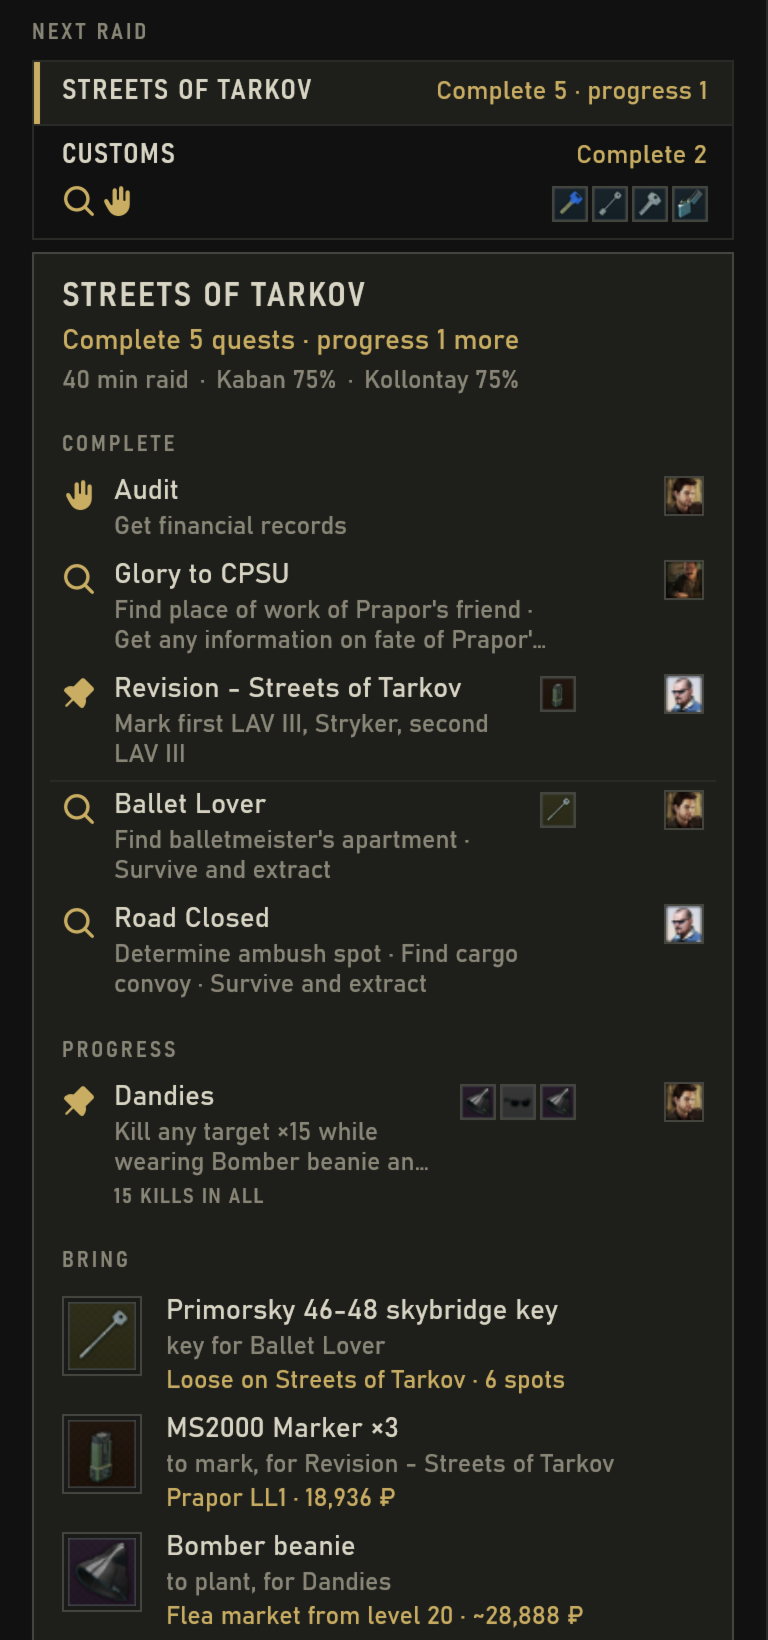
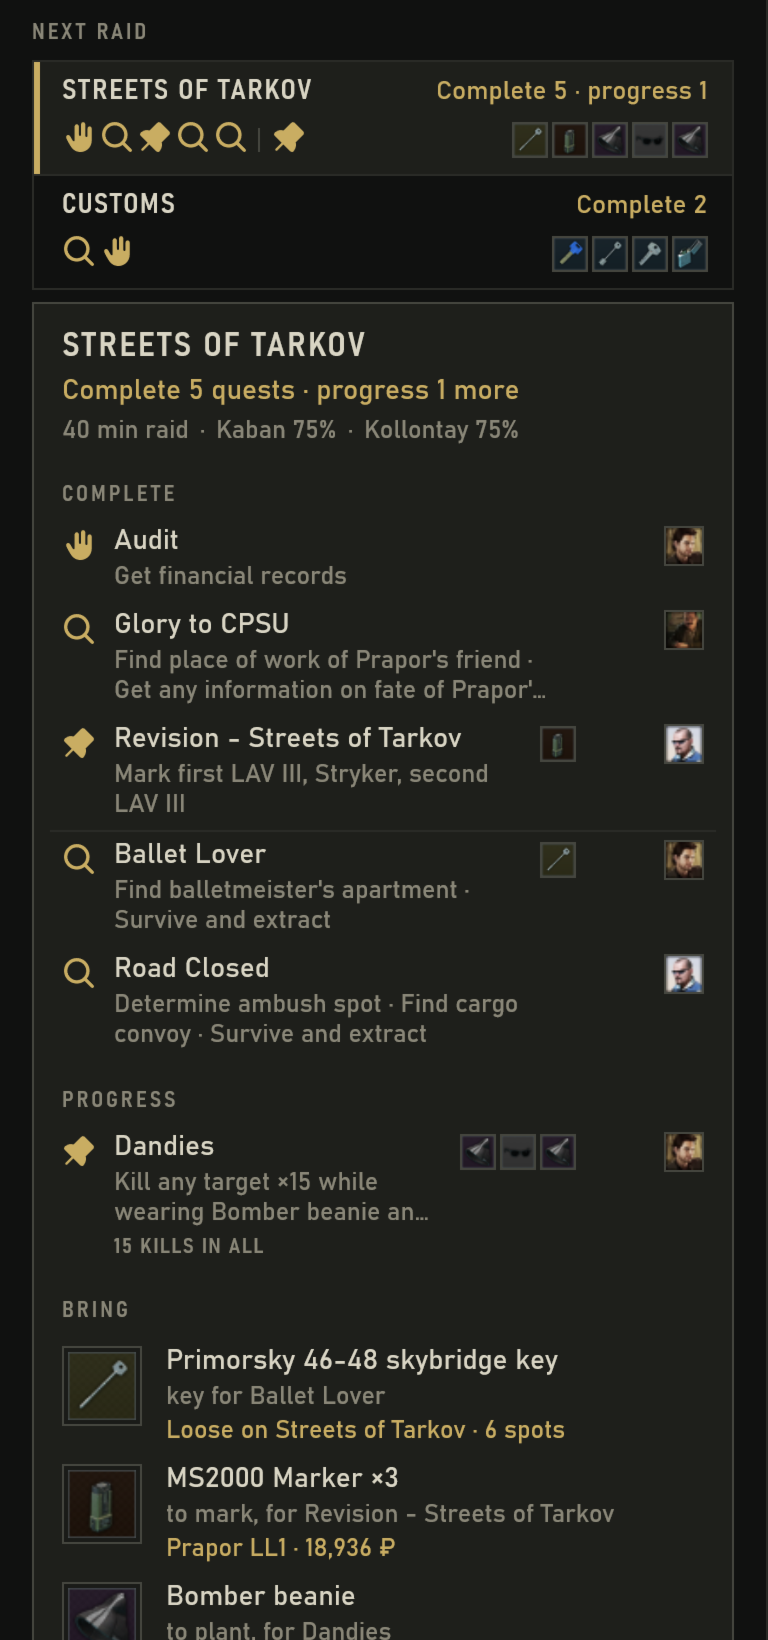
The example raid is a real one; wording follows the extract list
The stills come from the app's new example raid: a walk on Streets 27 minutes into the raid, with the time left as
the raid card's readout and the extract list read. The old picture showed a trail between two spawns at 0 min.
A callout for the time left; the callouts, alt texts and the cue's cut-out follow the new pictures.

Shturmap now reads the top right corner of a raid screenshot's picture for the game's extract list: Boundaries has a
row for it, and the sentences that said the image is never opened say what is read instead.

The hero clip is not re-recorded: it still shows the raid card as it was.

diff --git a/index.html b/index.html
@@ -96,31 +96,34 @@
         <div class="stack" style="gap: 10px">
           <div class="b-anno">
             <div class="b-img" id="raid-box">
-              <img id="raid-img" src="assets/img/raid.webp" width="1584" height="861" alt="Shturmap in a raid on Streets of Tarkov: the raid card on the left, the map on the right, with seven numbered callouts">
+              <img id="raid-img" src="assets/img/raid.webp" width="1584" height="861" alt="Shturmap in a raid on Streets of Tarkov: the raid card on the left, the map on the right, with eight numbered callouts">
               <div class="b-ln" style="left: 20.2%; top: 2.1%"></div><div class="b-pt" style="left: 20.2%; top: 2.1%">1</div>
-              <div class="b-ln" style="left: 20.8%; top: 31.5%"></div><div class="b-pt" style="left: 20.8%; top: 31.5%">2</div>
-              <div class="b-ln" style="left: 20.8%; top: 40.1%"></div><div class="b-pt" style="left: 20.8%; top: 40.1%">3</div>
-              <div class="b-ln" style="left: 60.6%; top: 56.2%"></div><div class="b-pt" style="left: 60.6%; top: 56.2%">4</div>
-              <div class="b-ln" style="left: 96.1%; top: 69.4%"></div><div class="b-pt" style="left: 96.1%; top: 69.4%">5</div>
-              <div class="b-ln" style="left: 58%; top: 88.3%"></div><div class="b-pt" style="left: 58%; top: 88.3%">6</div>
-              <div class="b-ln" style="left: 27.7%; top: 95.9%"></div><div class="b-pt" style="left: 27.7%; top: 95.9%">7</div>
+              <div class="b-ln" style="left: 20.8%; top: 25.4%"></div><div class="b-pt" style="left: 20.8%; top: 25.4%">2</div>
+              <div class="b-ln" style="left: 20.8%; top: 38%"></div><div class="b-pt" style="left: 20.8%; top: 38%">3</div>
+              <div class="b-ln" style="left: 20.8%; top: 46.5%"></div><div class="b-pt" style="left: 20.8%; top: 46.5%">4</div>
+              <div class="b-ln" style="left: 60.6%; top: 56.2%"></div><div class="b-pt" style="left: 60.6%; top: 56.2%">5</div>
+              <div class="b-ln" style="left: 96.1%; top: 69.4%"></div><div class="b-pt" style="left: 96.1%; top: 69.4%">6</div>
+              <div class="b-ln" style="left: 53.1%; top: 84.8%"></div><div class="b-pt" style="left: 53.1%; top: 84.8%">7</div>
+              <div class="b-ln" style="left: 27.7%; top: 95.9%"></div><div class="b-pt" style="left: 27.7%; top: 95.9%">8</div>
               <div class="loupe" id="loupe" aria-hidden="true"></div>
             </div>
             <ol class="b-gut">
               <li class="b-lab" style="top: 2.1%"><b>1</b><span>Raid, side, age of your position.</span></li>
-              <li class="b-lab" style="top: 31.5%"><b>2</b><span>Next objective: distance, direction.</span></li>
-              <li class="b-lab" style="top: 40.1%"><b>3</b><span>Nearest extract for your side.</span></li>
-              <li class="b-lab" style="top: 56.2%"><b>4</b><span>Objectives, by quest type.</span></li>
-              <li class="b-lab" style="top: 69.4%"><b>5</b><span>Floor, from your height.</span></li>
-              <li class="b-lab" style="top: 88.3%"><b>6</b><span>You, from your last screenshot.</span></li>
-              <li class="b-lab" style="top: 95.9%"><b>7</b><span>The wiki's map, one click away.</span></li>
+              <li class="b-lab" style="top: 25.4%"><b>2</b><span>Time left in the raid.</span></li>
+              <li class="b-lab" style="top: 38%"><b>3</b><span>Next objective: distance, direction.</span></li>
+              <li class="b-lab" style="top: 46.5%"><b>4</b><span>Nearest extract on your list.</span></li>
+              <li class="b-lab" style="top: 56.2%"><b>5</b><span>Objectives, by quest type.</span></li>
+              <li class="b-lab" style="top: 69.4%"><b>6</b><span>Floor, from your height.</span></li>
+              <li class="b-lab" style="top: 84.8%"><b>7</b><span>You, from your last screenshot.</span></li>
+              <li class="b-lab" style="top: 95.9%"><b>8</b><span>The wiki's map, one click away.</span></li>
             </ol>
+
           </div>
           <div class="credit"><span>A raid on Streets of Tarkov, rendered by the app at 1600×900 (hover to magnify).</span><span>Map © Shebuka and contributors, CC BY-NC-SA 4.0</span></div>
         </div>
         <div class="pair">
           <figure class="fig">
-            <img src="assets/img/raid-card.webp" width="384" height="505" alt="The raid card at actual size: next objective 69 m ahead-left, nearest extract 94 m to the right, then every objective by distance" style="max-width: 384px; width: 100%">
+            <img src="assets/img/raid-card.webp" width="384" height="505" alt="The raid card at actual size: 13 minutes left of the raid and 27 gone, next objective 30 m ahead-left, the nearest extract on your list 138 m behind, then every objective by distance" style="max-width: 384px; width: 100%">
             <figcaption>The raid card, actual size.</figcaption>
           </figure>
           <div class="stack" style="align-self: center">
@@ -160,7 +163,7 @@
             </div>
           </div>
           <figure class="fig">
-            <img src="assets/img/quest-card.webp" width="360" height="301" alt="Quest card for Ballet Lover: active from the game log, the objective 300 m ahead and 9 m up, the key to bring and where it lies, and a link to the wiki page" style="max-width: 360px; width: 100%">
+            <img src="assets/img/quest-card.webp" width="360" height="301" alt="Quest card for Ballet Lover: active from the game log, the objective 294 m to the left and 8 m up, the key to bring and where it lies, and a link to the wiki page" style="max-width: 360px; width: 100%">
             <figcaption>Quest card, actual size.</figcaption>
           </figure>
         </div>
@@ -181,9 +184,17 @@
             <div class="io-raw" role="cell">
               <code><span class="dim">2026-01-01[13-35]_</span><span class="s-pos">40.00, 2.50, 120.00</span><span class="dim">_</span><span class="s-rot">0.01000, 0.99900, -0.04000, 0.02000</span><span class="dim">_</span><span class="s-clk">14.13</span><span class="dim"> (0).png</span></code>
               <div class="legend"><span class="l-pos">position x, y, z</span><span class="l-rot">facing</span><span class="l-clk">raid clock, 14.13 h = 14:08</span></div>
-              <p class="note">Written by the game when you press your screenshot key; Battlestate's own support article on <a href="https://www.escapefromtarkov.com/support/knowledge/437">reporting a bug</a> describes these coordinates in the name. Shturmap reads the name; the image stays unopened.</p>
+              <p class="note">Written by the game when you press your screenshot key; Battlestate's own support article on <a href="https://www.escapefromtarkov.com/support/knowledge/437">reporting a bug</a> describes these coordinates in the name. Shturmap reads the name for your position.</p>
             </div>
             <div class="io-out" role="cell">where you are and which way you face</div>
+          </div>
+          <div class="io-row" role="row">
+            <div class="io-src" role="cell">Screenshots\ (the picture's top right corner)</div>
+            <div class="io-raw" role="cell">
+              <code>EXFIL03 Crash Site</code>
+              <p class="note">The game shows the extracts it gave you this raid in a list at the top right, at the raid's start and when you ask for it. If a screenshot you take in a raid shows that list, Shturmap reads it from that corner of the picture, with the text recognition built into Windows: on your PC, with nothing of the picture kept or sent. No other part of a picture is looked at, and unticking Read the extract list from screenshots in settings stops it.</p>
+            </div>
+            <div class="io-out" role="cell">which extracts are yours this raid</div>
           </div>
           <div class="io-row" role="row">
             <div class="io-src" role="cell">application_000.log</div>
@@ -275,7 +286,7 @@
           <details class="faq" id="faq-position">
             <summary>How does it know where I am?</summary>
             <div class="faq-a">
-              <p>When you press your screenshot key, the game saves a screenshot and writes your position and facing into its file name. Shturmap reads that name, never the image, and moves your marker there. It reads which key is yours from the game's settings.</p>
+              <p>When you press your screenshot key, the game saves a screenshot and writes your position and facing into its file name. Shturmap reads that name and moves your marker there. If the picture shows the game's extract list at its top right, Shturmap also reads that list, on your PC, to tell which extracts are yours this raid; you can turn that off in settings. It reads which key is yours from the game's settings.</p>
               <p>Nothing else moves the marker. Press the key again when you want a fresh position; an old one is marked with its age.</p>
             </div>
           </details>
@@ -326,7 +337,7 @@
           <details class="faq" id="faq-reads">
             <summary>What does it read, and what does it never do?</summary>
             <div class="faq-a">
-              <p>It reads the file names of your screenshots, the game's application and push-notification logs, Control.ini and Game.ini, where the game is installed (from Windows, Steam and the launcher's settings), and public data from tarkov.dev; the list is under <a href="#a4">Boundaries</a>. It never reads or writes the game's memory, never opens the game's process from its own code (<a href="#faq-installer">its installer is the one exception</a>), sends no keystrokes or mouse input, doesn't capture your screen or draw over the game, and changes no game files.</p>
+              <p>It reads the file names of your screenshots and, of one taken in a raid, the top right corner of its picture for the game's extract list; the game's application and push-notification logs, Control.ini and Game.ini, where the game is installed (from Windows, Steam and the launcher's settings), and public data from tarkov.dev; the list is under <a href="#a4">Boundaries</a>. It never reads or writes the game's memory, never opens the game's process from its own code (<a href="#faq-installer">its installer is the one exception</a>), sends no keystrokes or mouse input, doesn't capture your screen or draw over the game, and changes no game files.</p>
             </div>
           </details>
           <details class="faq" id="faq-banned">

diff --git a/README.md b/README.md
@@ -46,7 +46,7 @@ second monitor if there is one); leave it alone until the script says it's done,
 
 | File | What it shows | Made by |
 | --- | --- | --- |
-| `assets/img/raid.webp` | In a raid at position B: the raid card and the whole map (section 02, with the callouts and the loupe) | `fake-raid.ps1 -Window 1600x900 -Scale 2`, map laid in, loading cue and notice removed |
+| `assets/img/raid.webp` | In a raid, 27 minutes in, with the extract list read: the raid card and the whole map (section 02, with the callouts and the loupe) | `fake-raid.ps1 -Window 1600x900 -Scale 2`, map laid in, loading cue and notice removed |
 | `assets/img/raid-card.webp` | The raid card from that view at actual size | crop of the same render |
 | `assets/img/plan-rail.webp` | Plan in the menus: the map list, Streets first, and what to bring | `fake-raid.ps1 -PlanOnly -Window 1600x1040` (taller, so BRING's rows are in view), crop |
 | `assets/img/quest-card.webp` | Ballet Lover's quest card | `fake-raid.ps1 -ShowQuest Ballet` |
@@ -63,9 +63,9 @@ After re-recording, check by hand:
 
 - **The numbered callouts** on `raid.webp` in `index.html`: their `left`/`top` are percent positions on the image.
   Find a spot's pixels with `dotnet run tools/img.cs '--' sample <png> x y`, then divide by 3168 x 1722.
-- **Text that quotes the images**, which must match the new ones: the raid card's alt text ("next objective 69 m
-  ahead-left, nearest extract 94 m to the right"), Plan's ("Streets of Tarkov first, five quests to complete and one
-  to progress") and the quest card's ("the objective 300 m ahead and 9 m up"), the hero clip's `aria-label` (the quest
+- **Text that quotes the images**, which must match the new ones: the raid card's alt text ("next objective 30 m
+  ahead-left, the nearest extract on your list 138 m behind"), Plan's ("Streets of Tarkov first, five quests to complete and one
+  to progress") and the quest card's ("the objective 294 m to the left and 8 m up"), the hero clip's `aria-label` (the quest
   it points at) and the figure captions.
 - **The crop rectangles** in `make-media.ps1`, if the rail's layout moved.
 - **The `width` and `height` attributes** in `index.html`, if an image or the clip changed size.

diff --git a/CLAUDE.md b/CLAUDE.md
@@ -8,7 +8,9 @@ working rules.
 
 - **No third-party requests.** Fonts, images and video are served from this repository; no CDNs, analytics or
   embeds. External URLs may only be links and the canonical/og URLs (`tools/check-site.cs` lists them all).
-- **Every claim literally true** of the app as it is. It reads screenshot file names (never the images), the
+- **Every claim literally true** of the app as it is. It reads screenshot file names and, of a screenshot taken in a raid, the top right corner of its picture for the
+  game's extract list (on the PC, with Windows' text recognition; nothing of the picture kept or sent; a setting turns
+  it off), the
   application and push-notification logs, Control.ini and Game.ini, where the game is installed, and public
   tarkov.dev data; it sends no input, and quest status comes only from the game's logs (an objective can be ticked
   by hand). Three things need their exact words, as in the app's README: its own code opens no handle to the game,
@@ -55,8 +57,8 @@ and never capture anything for routine checks: use the app's `--snapshot` and th
 
 - **Callouts** on `raid.webp` in `index.html`: `left`/`top` are percents of the image. Find pixels with
   `..\Shturmap\eng\dotnet.ps1 run tools/img.cs '--' sample <png> x y` and divide by 3168 x 1722.
-- **Text that quotes the images**: the alt texts and captions with numbers ("69 m ahead-left", "94 m to the
-  right", "five quests to complete and one to progress", "300 m ahead and 9 m up") and the clip's `aria-label`.
+- **Text that quotes the images**: the alt texts and captions with numbers ("30 m ahead-left", "138 m
+  behind", "five quests to complete and one to progress", "294 m to the left and 8 m up") and the clip's `aria-label`.
 - **Crop rectangles** in `make-media.ps1`, if the app's rail moved.
 - **`width` and `height`** in `index.html`, if an image or the clip changed size.
 - **The app's README** embeds `https://shturmap.github.io/assets/img/raid.webp` and repeats the hero's wording: keep
